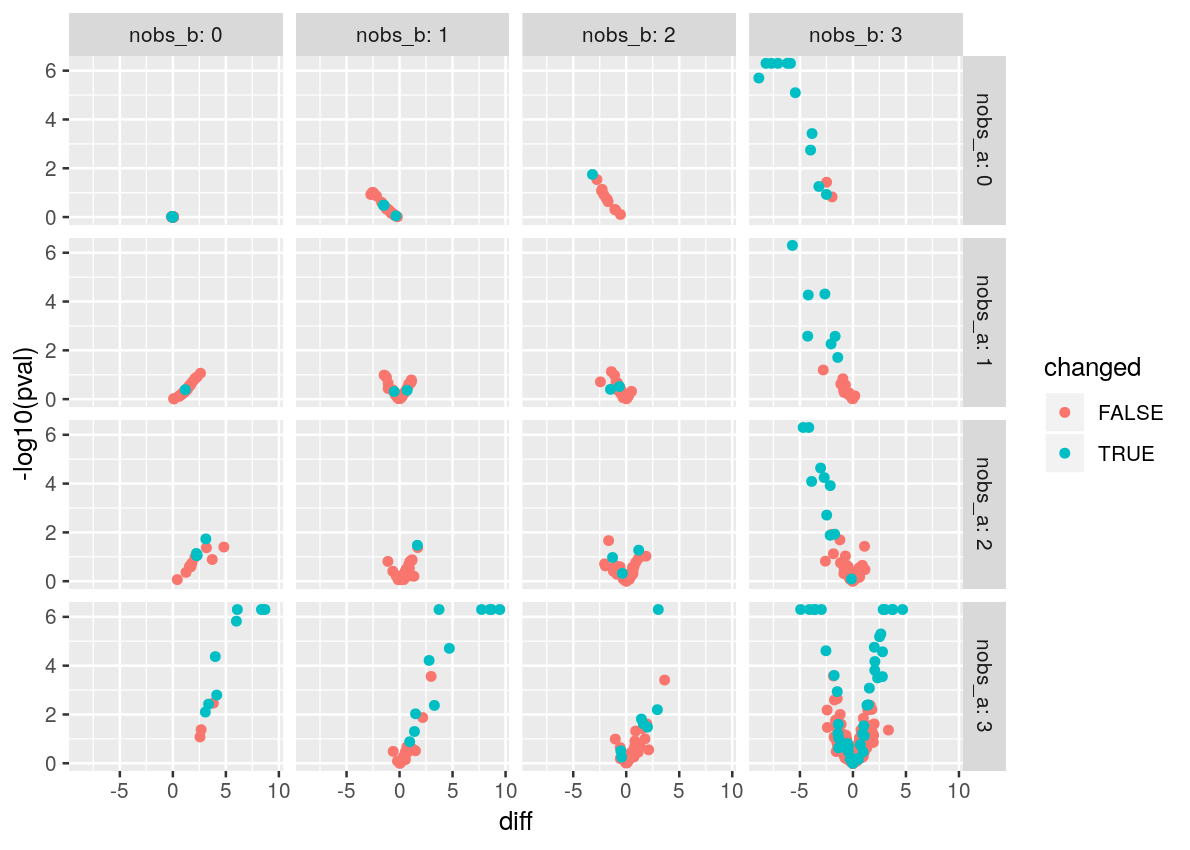
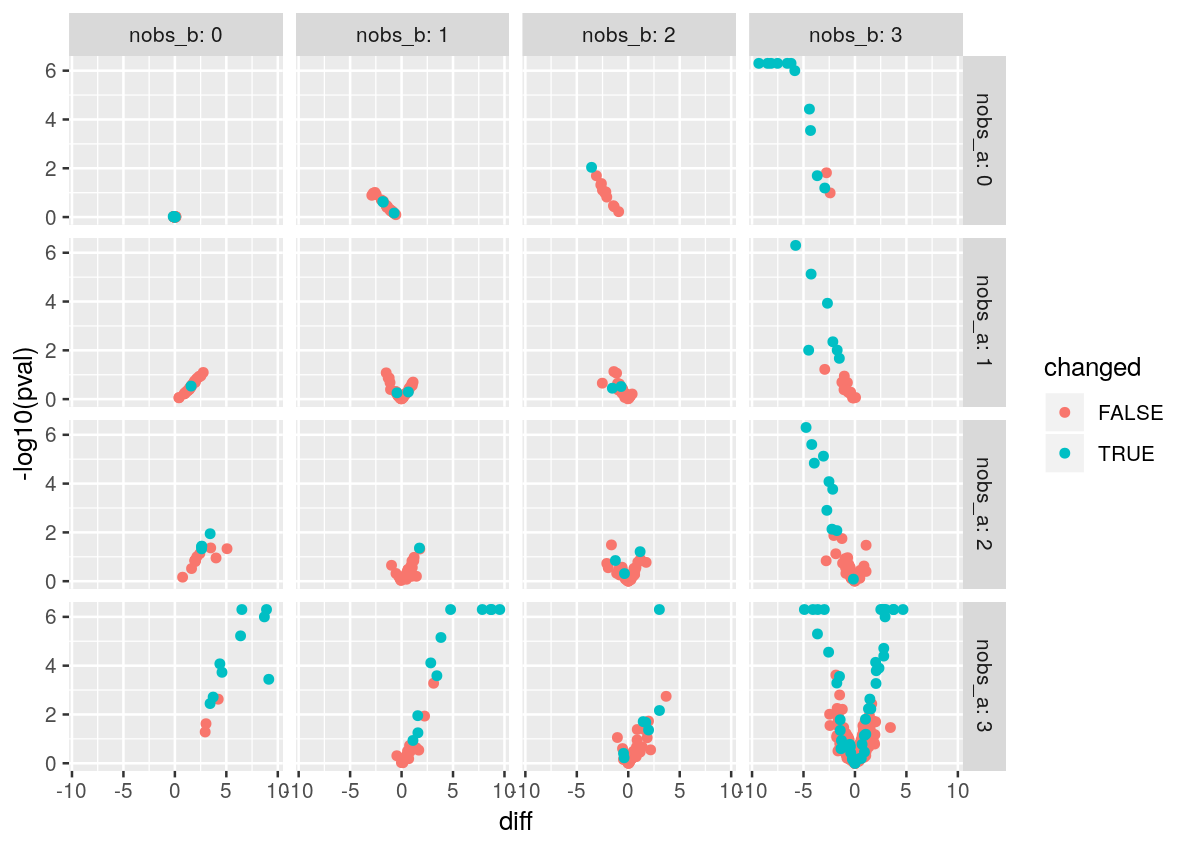
Minor changes in README

diff --git a/README.md b/README.md
@@ -19,8 +19,7 @@ devtools::install_github("const-ae/proDD")
 Disclaimer
 ==========
 
-I am still actively working on the project and although the algorithm is working fine at this point, the API
-might still be subject to change.
+I am still actively working on the project and although the algorithm is working fine at this point, the API might still be subject to change.
 
 Walkthrough
 ===========
@@ -55,15 +54,18 @@ syn_data <- generate_synthetic_data(n_rows=1234, experimental_design=experimenta
 # The data matrix, where non-observed values are coded as NA
 X <- syn_data$X
 
+# Median normalization to remove sample effects 
+X <- median_normalization(X)
+
 # The columns are the samples and each row is a protein
 head(X)
 #>                A-1      A-2      A-3      B-1      B-2      B-3
-#> protein_1 26.01637 26.19815 24.34241 25.16535 26.44820 25.78622
-#> protein_2 21.32026 21.03830 20.82801 22.09844 21.64022 21.11569
-#> protein_3 22.07577 21.82087 22.03724 21.88494 22.54764 22.00424
-#> protein_4 27.27920 26.88433 27.16552 26.33441 27.62639 26.83863
-#> protein_5 17.94647 17.67842 17.69316 17.73461 17.95657       NA
-#> protein_6 24.16161 24.13973 24.81110 24.96692 24.84591 23.41231
+#> protein_1 26.01094 26.19299 24.33803 25.16535 26.44060 25.78596
+#> protein_2 21.31483 21.03314 20.82363 22.09844 21.63262 21.11544
+#> protein_3 22.07034 21.81571 22.03286 21.88494 22.54004 22.00399
+#> protein_4 27.27377 26.87917 27.16113 26.33441 27.61880 26.83838
+#> protein_5 17.94104 17.67325 17.68878 17.73461 17.94897       NA
+#> protein_6 24.15618 24.13457 24.80671 24.96692 24.83832 23.41206
 ```
 
 To get a better impression of the raw data we will make a heatmap plot (using the `pheatmap` package). Unfortunately the `hclust` method that is internally used does not support missing values, so we will for this plot just replace all missing values with a zero
@@ -73,7 +75,7 @@ X_for_plotting <- X
 X_for_plotting[is.na(X_for_plotting)] <- 0
 pheatmap(X_for_plotting,
          main=paste0(round(sum(is.na(X))/prod(dim(X)) * 100), "% missing values"),
-         annotation_row = data.frame(changed=as.factor(syn_data$changed),
+         annotation_row = data.frame(changed=as.character(syn_data$changed),
                                      row.names = rownames(X_for_plotting)),
          show_rownames = FALSE)
 ```
@@ -127,15 +129,15 @@ params
 #> 
 #> There were 6 samples in 2 conditons. In total there were 1234 rows.
 #> The model has successfully converged.
-#> The error of the last iteration was 0.0003331
+#> The error of the last iteration was 0.0001249
 #> 
 #> The inferred parameters are:
 #> eta:      0.302
 #> nu:       3.09
-#> mu0:      20.5
-#> sigma20:  7.88
-#> rho:      18.4, 18.4, 18.3, 18.4, 18.4, 18.4
-#> zeta:     -1.05, -1.11, -1.04, -1.04, -0.916, -1.06
+#> mu0:      20.3
+#> sigma20:  8.47
+#> rho:      18.1, 18.1, 18, 18.1, 18.1, 18
+#> zeta:     -1.08, -1.16, -1.06, -1.06, -0.965, -1.08
 ```
 
 As we can see the method has successfully converged so we can continue. If it would not have converged increase `max_iter`. In this example we are working on a moderately sized data set, usually a thousand proteins are enough to make good estimates of the hyper-parameters, if your dataset has many proteins you can easily speed up the inference by setting for example `n_subsample=1000`.
@@ -177,6 +179,9 @@ Those posterior distribution form the basis of the subsequent steps for identify
 # Internally this function uses Stan to sample the posteriors.
 # Stan provides a lot of output which you can see by setting verbose=TRUE
 posteriors <- sample_protein_means(X, params, verbose=FALSE)
+#> Warning: There were 1 transitions after warmup that exceeded the maximum treedepth. Increase max_treedepth above 10. See
+#> http://mc-stan.org/misc/warnings.html#maximum-treedepth-exceeded
+#> Warning: Examine the pairs() plot to diagnose sampling problems
 ```
 
 Now that we have a good idea what is the latent intensity of each protein we can go on to identify the differentially detected proteins
@@ -186,37 +191,37 @@ result <- test_diff(posteriors$A,  posteriors$B)
 
 # The resulting data.frame
 head(result)
-#>                name      pval  adj_pval        diff diff_quantile_0.025
-#> protein_1 protein_1 0.6519370 0.9999930 -0.30277704          -1.6623174
-#> protein_2 protein_2 0.2023475 0.8761292 -0.55093833          -1.4280952
-#> protein_3 protein_3 0.6476790 0.9999930 -0.16726281          -0.9458469
-#> protein_4 protein_4 0.7382940 0.9999930  0.15303903          -0.7856018
-#> protein_5 protein_5 0.9150940 0.9999930 -0.04570317          -0.9518597
-#> protein_6 protein_6 0.9527940 0.9999930 -0.02652622          -1.1187081
+#>                name      pval  adj_pval         diff diff_quantile_0.025
+#> protein_1 protein_1 0.6785740 0.9999580 -0.291432032          -1.7291496
+#> protein_2 protein_2 0.1861635 0.8323397 -0.549142724          -1.3593799
+#> protein_3 protein_3 0.6433710 0.9999580 -0.172165835          -0.9487982
+#> protein_4 protein_4 0.7251470 0.9999580  0.157035095          -0.7953129
+#> protein_5 protein_5 0.9738545 0.9999580 -0.003906608          -0.8030738
+#> protein_6 protein_6 0.9511200 0.9999580 -0.033457791          -1.1671860
 #>           diff_quantile_0.975     mean
-#> protein_1           1.0567892 25.50960
-#> protein_2           0.3548970 21.33132
-#> protein_3           0.6407038 22.04862
-#> protein_4           1.1298421 26.92508
-#> protein_5           0.8541871 17.82200
-#> protein_6           1.1394976 24.30923
+#> protein_1           1.0978970 25.49918
+#> protein_2           0.3792725 21.33087
+#> protein_3           0.5618499 22.03837
+#> protein_4           1.1028073 26.92054
+#> protein_5           0.9195002 17.79907
+#> protein_6           1.0369523 24.30052
 
 # The most significant changes
 head(result[order(result$pval), ])
 #>                      name  pval     adj_pval     diff diff_quantile_0.025
-#> protein_1123 protein_1123 5e-07 2.127586e-05 3.756010            2.887895
-#> protein_1125 protein_1125 5e-07 2.127586e-05 8.684136            5.395122
-#> protein_1136 protein_1136 5e-07 2.127586e-05 6.082129            3.770749
-#> protein_1150 protein_1150 5e-07 2.127586e-05 3.726091            2.832252
-#> protein_1151 protein_1151 5e-07 2.127586e-05 8.666559            7.539040
-#> protein_1153 protein_1153 5e-07 2.127586e-05 8.524979            6.537474
+#> protein_1120 protein_1120 5e-07 2.285185e-05 2.635568            1.773760
+#> protein_1123 protein_1123 5e-07 2.285185e-05 3.740655            2.847882
+#> protein_1136 protein_1136 5e-07 2.285185e-05 6.508895            4.018305
+#> protein_1150 protein_1150 5e-07 2.285185e-05 3.752084            3.027714
+#> protein_1151 protein_1151 5e-07 2.285185e-05 8.752962            7.712919
+#> protein_1153 protein_1153 5e-07 2.285185e-05 8.657540            6.771016
 #>              diff_quantile_0.975     mean
-#> protein_1123            4.575237 21.58930
-#> protein_1125           12.403347 20.66842
-#> protein_1136            9.482807 19.31900
-#> protein_1150            4.489075 23.33110
-#> protein_1151            9.859986 21.78647
-#> protein_1153           10.244433 21.41580
+#> protein_1120            3.483684 20.99344
+#> protein_1123            4.541386 21.58175
+#> protein_1136           10.293318 19.11484
+#> protein_1150            4.504923 23.32864
+#> protein_1151            9.958242 21.75045
+#> protein_1153           10.427010 21.35123
 ```
 
 A popular way to look at such data is to make a volcano plot. Here we will use the fact that we generated the data to highlight proteins that were actually changed
